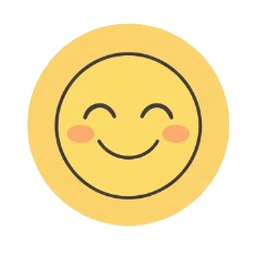
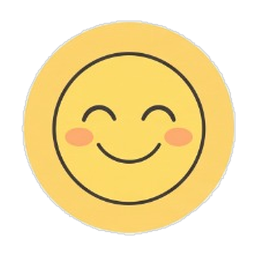
feat: replace 3D mood emojis with flat yellow hand-drawn mood stickers

diff --git a/src/components/MorningBriefModal.tsx b/src/components/MorningBriefModal.tsx
@@ -303,14 +303,14 @@ export const MorningBriefModal: React.FC = () => {
                     key={mood.id}
                     type="button"
                     onClick={() => handleSelectMood(mood)}
-                    className={`p-2 sm:p-2.5 rounded-2xl border-2 flex flex-col items-center justify-center transition-all cursor-pointer active:scale-95 ${
+                    className={`p-2 sm:p-2.5 rounded-2xl border-2 flex flex-col items-center justify-center transition-all cursor-pointer active:scale-95 group ${
                       isSelected
-                        ? 'bg-amber-50 border-amber-400 ring-2 ring-amber-300 text-amber-950 shadow-xs'
-                        : 'bg-white hover:bg-amber-50/40 border-slate-200 text-slate-700'
+                        ? 'bg-amber-100/90 border-amber-400 ring-2 ring-amber-300 text-amber-950 shadow-xs'
+                        : 'bg-white hover:bg-amber-50/50 border-slate-200 hover:border-amber-200 text-slate-800'
                     }`}
                   >
-                    <div className="w-9 h-9 sm:w-11 sm:h-11 mb-1 flex items-center justify-center">
-                      <Sticker className="w-full h-full object-contain" />
+                    <div className="w-10 h-10 sm:w-12 sm:h-12 mb-1 flex items-center justify-center group-hover:scale-105 transition-transform">
+                      <Sticker className="w-full h-full object-contain drop-shadow-2xs" />
                     </div>
                     <span className="font-black text-[11px] text-center">{mood.label}</span>
                   </button>

diff --git a/src/components/icons/JournalStickers.tsx b/src/components/icons/JournalStickers.tsx
@@ -288,6 +288,16 @@ export const RoutineStickerIcon: React.FC<{
   if (normEmoji === '🏆' || normEmoji === '🥇' || normTitle.includes('trophy') || normTitle.includes('reward') || normTitle.includes('win') || normTitle.includes('streak')) return <RewardTrophySticker className={className} size={size} />;
   // 🛁 Bath time / tub
   if (normEmoji === '🛁' || normTitle.includes('bath') || normTitle.includes('tub')) return <BathTimeSticker className={className} size={size} />;
+  // 😊 Happy
+  if (normEmoji === '😊' || normEmoji === '😄' || normEmoji === '🙂' || normTitle.includes('happy')) return <MoodHappySticker className={className} size={size} />;
+  // 😌 Calm
+  if (normEmoji === '😌' || normTitle.includes('calm') || normTitle.includes('peaceful')) return <MoodCalmSticker className={className} size={size} />;
+  // 🤩 Excited
+  if (normEmoji === '🤩' || normTitle.includes('excited')) return <MoodExcitedSticker className={className} size={size} />;
+  // 🥱 Sleepy / tired
+  if (normEmoji === '🥱' || normEmoji === '😴' || normTitle.includes('sleepy') || normTitle.includes('tired')) return <MoodSleepySticker className={className} size={size} />;
+  // 😟 Unsure / worried
+  if (normEmoji === '😟' || normEmoji === '😕' || normTitle.includes('unsure') || normTitle.includes('worried')) return <MoodUnsureSticker className={className} size={size} />;
 
   // Fallback to raw emoji if none match
   return <span className={className} style={size ? { fontSize: size * 0.75 } : undefined}>{emoji || '⭐'}</span>;
